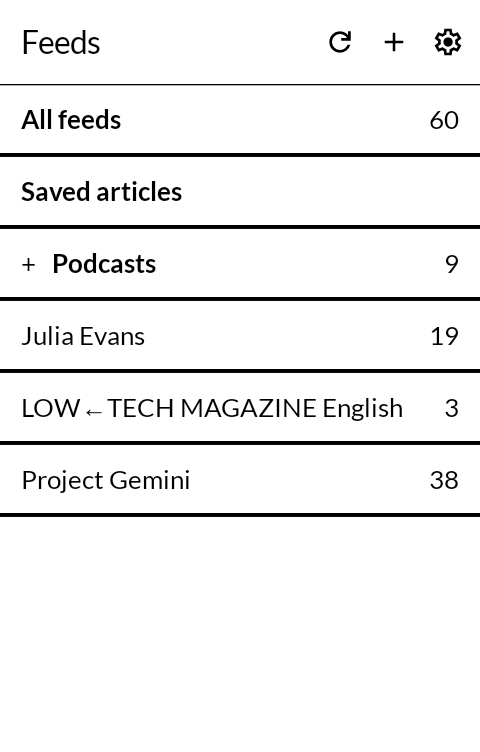
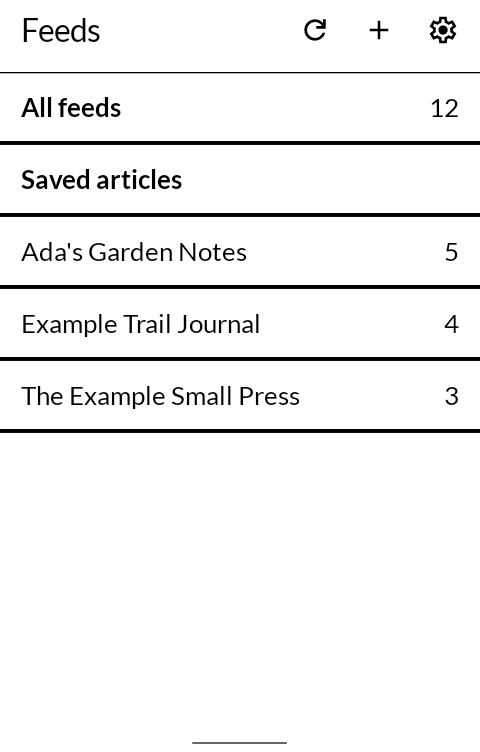
New screenshots

Changed region(s): [[0.0, 0.0, 1.0, 0.7035], [0.4062, 0.9787, 0.5938, 1.0], [0.7812, 0.0306, 0.8438, 0.0612]]

diff --git a/README.md b/README.md
@@ -14,8 +14,8 @@ Mudita's MMD design system.
 
 | | |
 |---|---|
-| ![The feeds: podcasts kept apart, a gemlog among them](screenshots/1-feeds.png) | ![Everything, whichever protocol it came over](screenshots/2-articles.png) |
-| ![A cutting](screenshots/3-article.png) | ![A capsule, over Gemini](screenshots/4-capsule.png) |
+| ![The feeds](screenshots/1-feeds.png) | ![Everything, whichever protocol it came over](screenshots/2-articles.png) |
+| ![An article, with Read aloud](screenshots/3-article.png) | ![About: privacy and the licences](screenshots/4-about.png) |
 
 ## What it is
 
